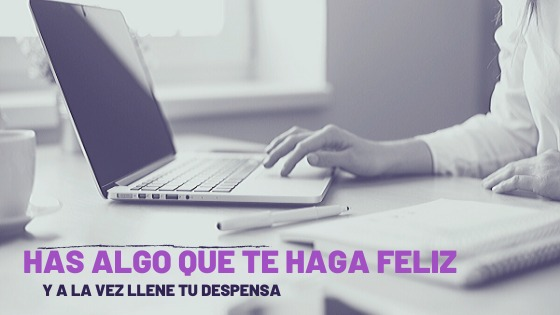
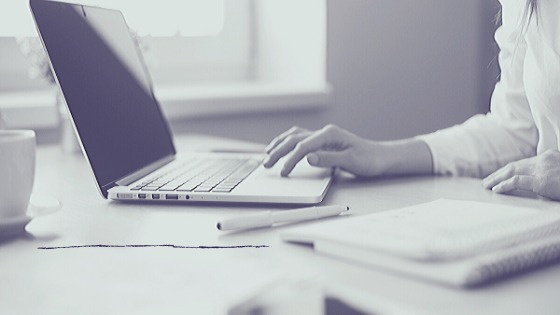
Subiendo ulitmos cambios del sabado

Changed region(s): [[0.0304, 0.7714, 0.8196, 0.9429]]

diff --git a/css/_header.sass b/css/_header.sass
@@ -1,11 +1,13 @@
 header
 header 
-  background: url(../img/pics/bkground.jpeg), #019851
+  background: url(../img/pics/bkground.jpeg), rgba(255,255,255,.4)
   background-size: cover
   background-position: center 0
   background-repeat: no-repeat
+  padding-bottom: 70px
   .contenedor_logo_menu
     padding: 25px 0
+    
     border-bottom: 1px solid rgba(255,255,255,.4)
     .logo
       a
@@ -39,16 +41,17 @@ header
       a
         border-radius: 4px
         border: 2px solid #fff
-        color: #fff
+        color: #BF3FBF
         padding: 12px 0
-        font-weight: 600
+        font-weight: 700
         width: 235px
         display: inline-block
         text-align: center
         margin: 0 10px
+        font-size: 30px
         &:hover 
           text-decoration: none
           background: #fff
-          color: #000
+          color: #BF3FBF
 
 

diff --git a/css/Style.css b/css/Style.css
@@ -9,10 +9,11 @@ body {
 }
 
 header {
-  background: url(../img/pics/bkground.jpeg), #019851;
+  background: url(../img/pics/bkground.jpeg), rgba(255, 255, 255, 0.4);
   background-size: cover;
   background-position: center 0;
   background-repeat: no-repeat;
+  padding-bottom: 70px;
 }
 
 header .contenedor_logo_menu {
@@ -66,19 +67,20 @@ header .textos .second-text {
 header .textos .contenedor-btns a {
   border-radius: 4px;
   border: 2px solid #fff;
-  color: #fff;
+  color: #BF3FBF;
   padding: 12px 0;
-  font-weight: 600;
+  font-weight: 700;
   width: 235px;
   display: inline-block;
   text-align: center;
   margin: 0 10px;
+  font-size: 30px;
 }
 
 header .textos .contenedor-btns a:hover {
   text-decoration: none;
   background: #fff;
-  color: #000;
+  color: #BF3FBF;
 }
 
 .main .caracteristicas {
